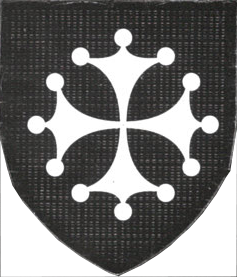
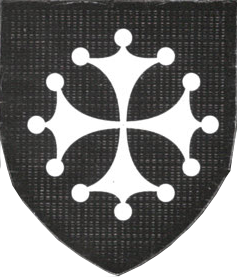
Replaced player images with shields for consistency

Changed region(s): [[0.0, 0.5199, 1.0, 1.0], [0.0, 0.5199, 0.0295, 0.5776]]

diff --git a/client/src/main/java/com/hexanome/fourteen/boards/GameBoard.java b/client/src/main/java/com/hexanome/fourteen/boards/GameBoard.java
@@ -86,7 +86,7 @@ public class GameBoard {
   private static final Map<String/*Player id*/, String/*Player Icon Filename*/> PLAYER_ID_MAP =
       new HashMap<>();
   private static final String[] DEFAULT_PLAYER_ICONS =
-      {"cat.jpg", "dog.jpg", "squirrel.jpg", "chameleon.jpg"};
+      {"yellowPlayerShield.png", "blackPlayerShield.png", "redPlayerShield.png", "bluePlayerShield.png"};
 
   Bank bank;
 
@@ -498,7 +498,7 @@ public class GameBoard {
 
     for (PlayerForm player : gameBoardForm.players()) {
       PLAYER_ID_MAP.put(player.uid(),
-          User.class.getResource("images/" + DEFAULT_PLAYER_ICONS[i]).toString());
+          GameBoard.class.getResource("images/tradingPosts/" + DEFAULT_PLAYER_ICONS[i]).toString());
       i = (i + 1) % DEFAULT_PLAYER_ICONS.length;
     }
   }
@@ -515,28 +515,16 @@ public class GameBoard {
     // Reset list of players
     players = new ArrayList<>();
 
-    int i = 0;
-
     // Add all players to players list
     for (PlayerForm playerForm : gameBoardForm.players()) {
-      if (playerForm.uid().equals(LobbyServiceCaller.getCurrentUserid())) {
-        player = new Player(playerForm, PLAYER_ID_MAP.get(playerForm.uid()));
-
-        if (i != 0) {
-          Player temp = players.get(0);
-          players.set(0, player);
-          players.add(temp);
-        } else {
-          players.add(player);
-        }
-      } else {
-        players.add(new Player(playerForm, PLAYER_ID_MAP.get(playerForm.uid())));
+      players.add(new Player(playerForm, PLAYER_ID_MAP.get(playerForm.uid())));
+      if(playerForm.uid().equals(LobbyServiceCaller.getCurrentUserid())){
+        player = players.get(players.size()-1);
       }
-      i++;
     }
 
     // Place all players in their frames
-    for (i = 0; i < playerViews.size(); i++) {
+    for (int i = 0; i < playerViews.size(); i++) {
       if (i < players.size() && players.get(i) != null) {
         playerViews.get(i).setImage(players.get(i));
         Tooltip.install(playerViews.get(i), new Tooltip(players.get(i).getUserId()
@@ -554,7 +542,7 @@ public class GameBoard {
     // Initialize the player's gems
     for (PlayerForm playerForm : gameBoardForm.players()) {
       if (playerForm.uid().equals(LobbyServiceCaller.getCurrentUserid())) {
-        for (i = 0; i < 6; i++) {
+        for (int i = 0; i < 6; i++) {
           pGemLabels.get(i).textProperty()
               .set("" + GemsForm.costHashToArrayWithGold(playerForm.hand().gems())[i]);
         }
